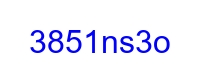
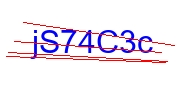
增加干擾線

Changed region(s): [[0.0273, 0.241, 0.9563, 0.7229]]

diff --git a/image_text.php b/image_text.php
@@ -77,9 +77,6 @@ if(isset($_POST)){
     }
     $color=$_POST['color'];
 
-   
-
-
 
     //評估文字資訊
     $text_info=imagettfbbox($_POST['size'],0,realpath('./font/arial.ttf'),$gstr);
@@ -107,15 +104,24 @@ if(isset($_POST)){
     $green=imagecolorallocate($dst_img,0,255,0);
     imagefill($dst_img,0,0,$white);
 
-
     imagettftext($dst_img,$_POST['size'],0,($border+$dst_x),($border+$dst_y),$$color,realpath('./font/arial.ttf'),$gstr);
+
+    $lines=rand(3,6);
+    for($i=0;$i<$lines;$i++){
+        $left_x=rand(5,$border-5);
+        $left_y=rand(5,$base_h-5);
+        $right_x=rand($base_w-$border+5,$base_w-5);
+        $right_y=rand(5,$base_h-5);
+        imageline($dst_img,$left_x,$left_y,$right_x,$right_y,$red);
+    }
+
     imagejpeg($dst_img,"./upload/text.jpg",100);
     imagedestroy($dst_img);
 
 }
 ?>
 <div style="width:500px;margin:auto;">
-    <h2>加入文字後的圖形<?=$_POST['length']."碼";?></h2>
+    <h2>加入文字後的圖形<?=$_POST['length']."碼";?>-<?=$lines."線";?></h2>
     <img src="./upload/text.jpg" alt="" style="border:2px solid black">
 </div>
 
